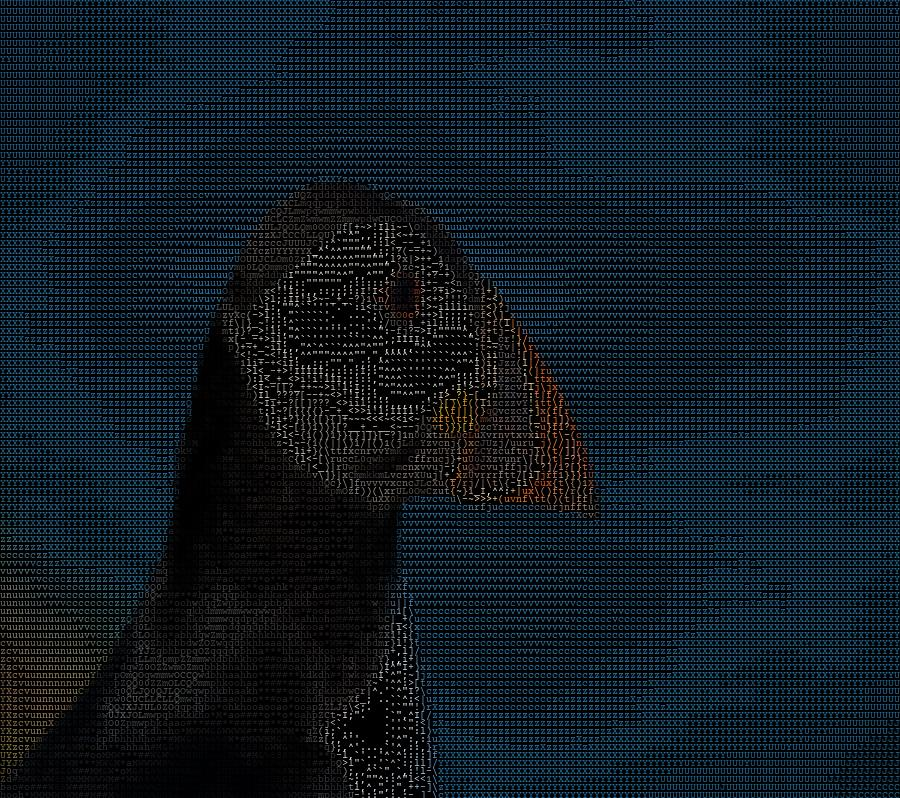
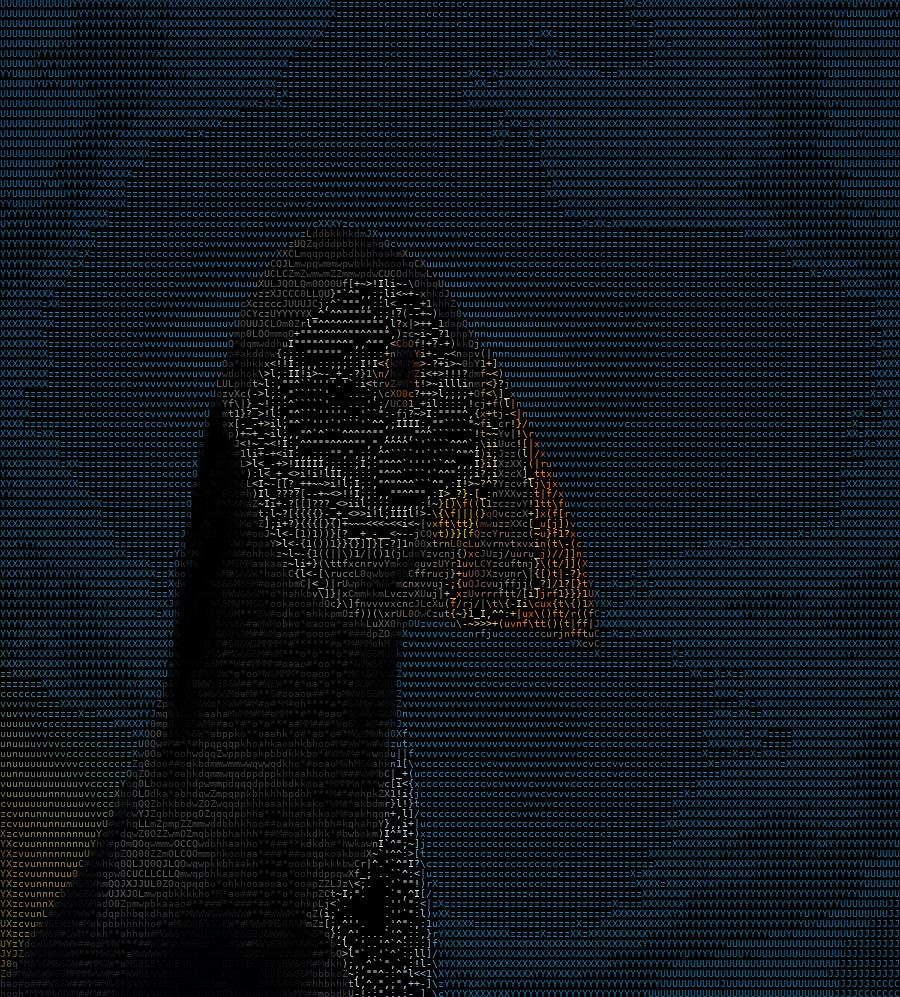
Final

Changed region(s): [[0.0, 0.0, 1.0, 1.0], [0.1244, 0.7519, 0.3111, 0.9023], [0.3422, 0.8722, 0.4044, 0.9323]]

diff --git a/imageToAscii.py b/imageToAscii.py
@@ -1,9 +1,7 @@
 import cv2 as cv
 from cv2 import COLOR_BGR2RGB
 import numpy as np
-from cv2 import waitKey
 from PIL import Image, ImageDraw, ImageOps, ImageFont
-from pkgutil import get_data
 
 char_set = {
   "standard": "@%#*+=-:. ",
@@ -11,8 +9,7 @@ char_set = {
 }
 
 def get_data(mode):
-  # font = ImageFont.truetype("fonts\DejaVuSansMono.ttf", size = 10)
-  font = ImageFont.truetype("fonts\CourierPrime-Regular.ttf", size = 10)
+  font = ImageFont.truetype("fonts\DejaVuSansMono.ttf", size = 10)
   scale = 1
   char_list = char_set[mode]
   return char_list, font, scale

diff --git a/videoToAscii.py b/videoToAscii.py
@@ -1,7 +1,3 @@
-import os
-import sys
-from time import time
-from tkinter import Frame
 import cv2 as cv
 import numpy as np
 from PIL import Image, ImageDraw, ImageOps, ImageFont
@@ -73,7 +69,7 @@ def main():
     res1 = res1.crop(partial_img)
     res1 = np.array(res1)
     cv.imshow("Frame", res1)
-    if cv.waitKey(10) & 0xFF == ord('q'):
+    if cv.waitKey(10) & 0xFF == ord('0'):
       break
     
   cam.release()

diff --git a/imageToGrayAscii.py b/imageToGrayAscii.py
@@ -1,8 +1,6 @@
 import cv2 as cv
 import numpy as np
-from cv2 import waitKey
 from PIL import Image, ImageDraw, ImageOps, ImageFont
-from pkgutil import get_data
 
 char_set = {
   "standard": "@%#*+=-:. ",

diff --git a/videoToGrayAscii.py b/videoToGrayAscii.py
@@ -1,7 +1,3 @@
-import os
-import sys
-from time import time
-from tkinter import Frame
 import cv2 as cv
 import numpy as np
 from PIL import Image, ImageDraw, ImageOps, ImageFont
